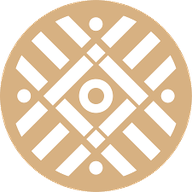
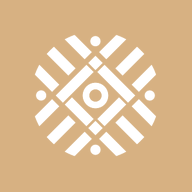
Add files via upload

diff --git a/index.html b/index.html
@@ -3,7 +3,7 @@
 <head>
     <meta charset="UTF-8">
     <meta name="viewport" content="width=device-width, initial-scale=1.0">
-    <meta name="tenate-version" content="2026-11-22.6"><!-- subir este valor en cada publicación: es lo que dispara el aviso "Nueva versión disponible" -->
+    <meta name="tenate-version" content="2026-11-22.7"><!-- subir este valor en cada publicación: es lo que dispara el aviso "Nueva versión disponible" -->
     <title>SCE Tenate</title>
[2 lines of base64/hex data omitted]

diff --git a/sw.js b/sw.js
@@ -10,7 +10,7 @@ const TILES = "tiles-" + VERSION;
 const MAX_TILES = 600;
 
 self.addEventListener("install", e => {
-  e.waitUntil(caches.open(SHELL).then(c => c.addAll(["./", "index.html", "manifest.json", "icon-192.png", "icon-512.png"].map(u => new Request(u, { cache: "reload" }))).catch(() => {})).then(() => self.skipWaiting()));
+  e.waitUntil(caches.open(SHELL).then(c => c.addAll(["./", "index.html", "manifest.json", "icon-192.png", "icon-512.png", "icon-maskable-192.png", "icon-maskable-512.png"].map(u => new Request(u, { cache: "reload" }))).catch(() => {})).then(() => self.skipWaiting()));
 });
 
 self.addEventListener("activate", e => {
